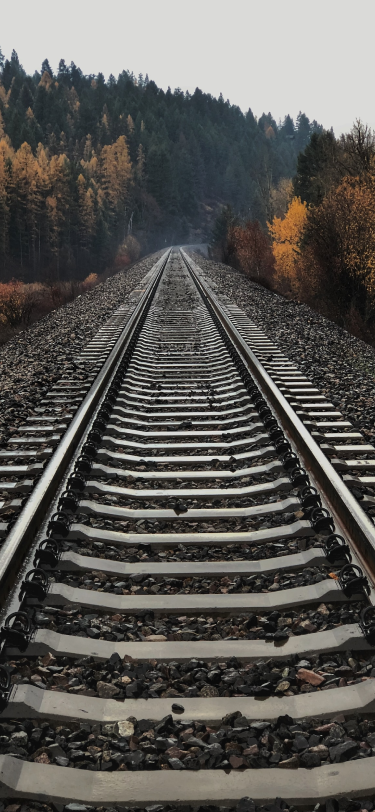
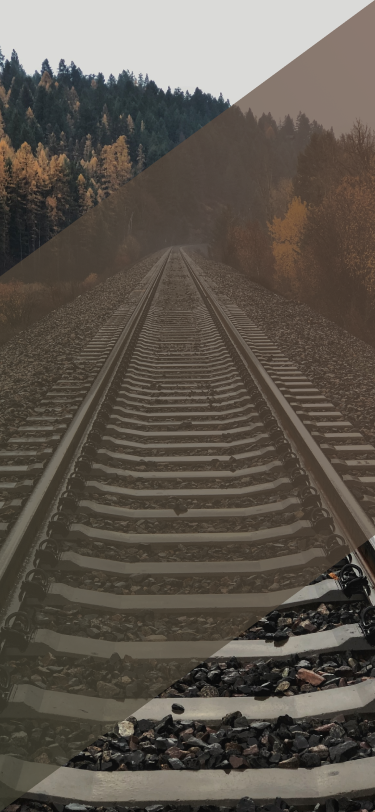
update loginBg

diff --git a/lib/core/utils/app_images.dart b/lib/core/utils/app_images.dart
@@ -2,7 +2,8 @@ const String onboardingVectorOne = 'onboarding_vector1.png';
 const String onboardingVectorTwo = 'onboarding_vector2.png';
 const String google = 'google_logo.png';
 const String facebook = 'facebook_icon.png';
-const String loginBg = 'login-signup.jpg';
+const String signupBg = 'login-signup.jpg';
+const String loginBg = 'login.png';
 const String rectangleOneBg = 'Rectangle 1.png';
 const String rectangleTwoBg = 'Rectangle 2.png';
 const String fromTo = 'fromto.png';

diff --git a/lib/features/authentication/presentation/screens/sign_up_screen.dart b/lib/features/authentication/presentation/screens/sign_up_screen.dart
@@ -22,7 +22,7 @@ class SignUpScreen extends StatelessWidget {
         SignUpCubit cubit = SignUpCubit.get(context);
         return SafeArea(
           child: SharedComponents.screenBg(
-            imageUrl: '${AppConstants.imagesUrl}$loginBg',
+            imageUrl: '${AppConstants.imagesUrl}$signupBg',
             context: context,
             child: Scaffold(
               //resizeToAvoidBottomInset: false,
